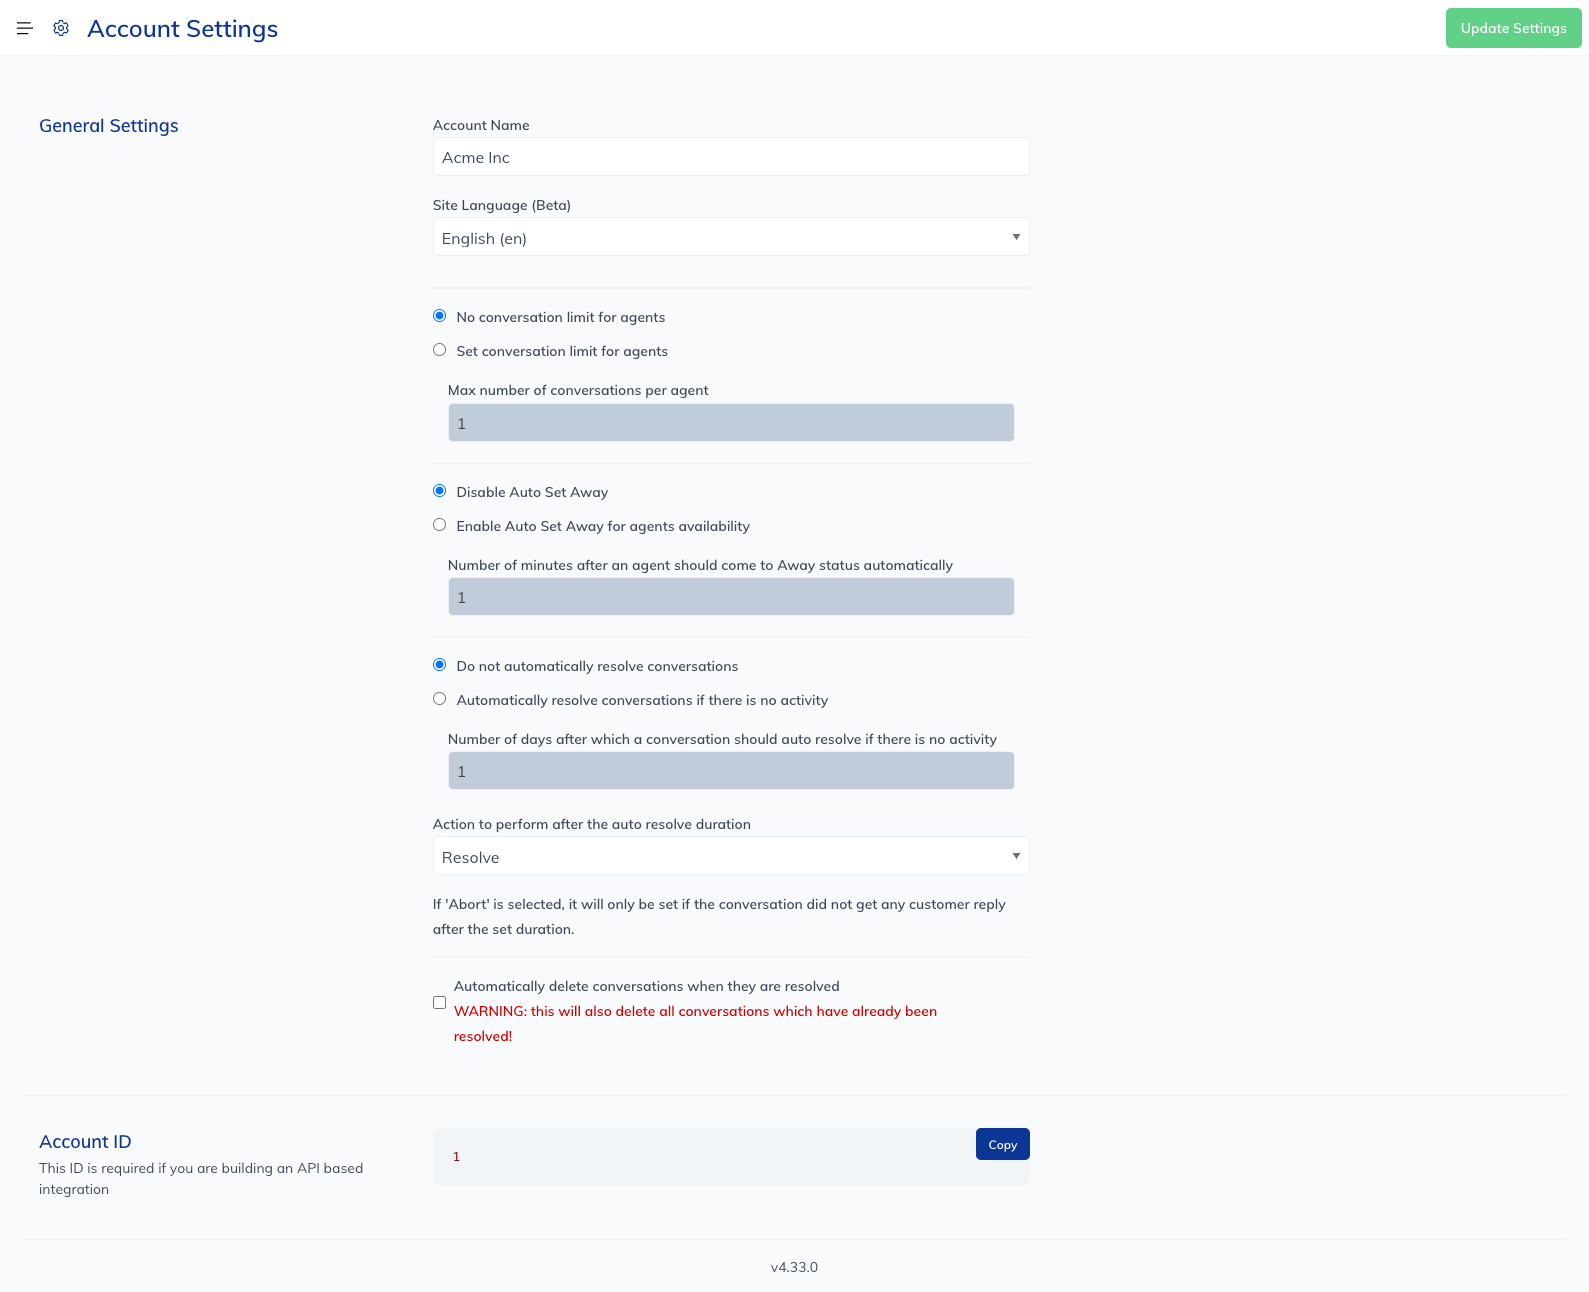
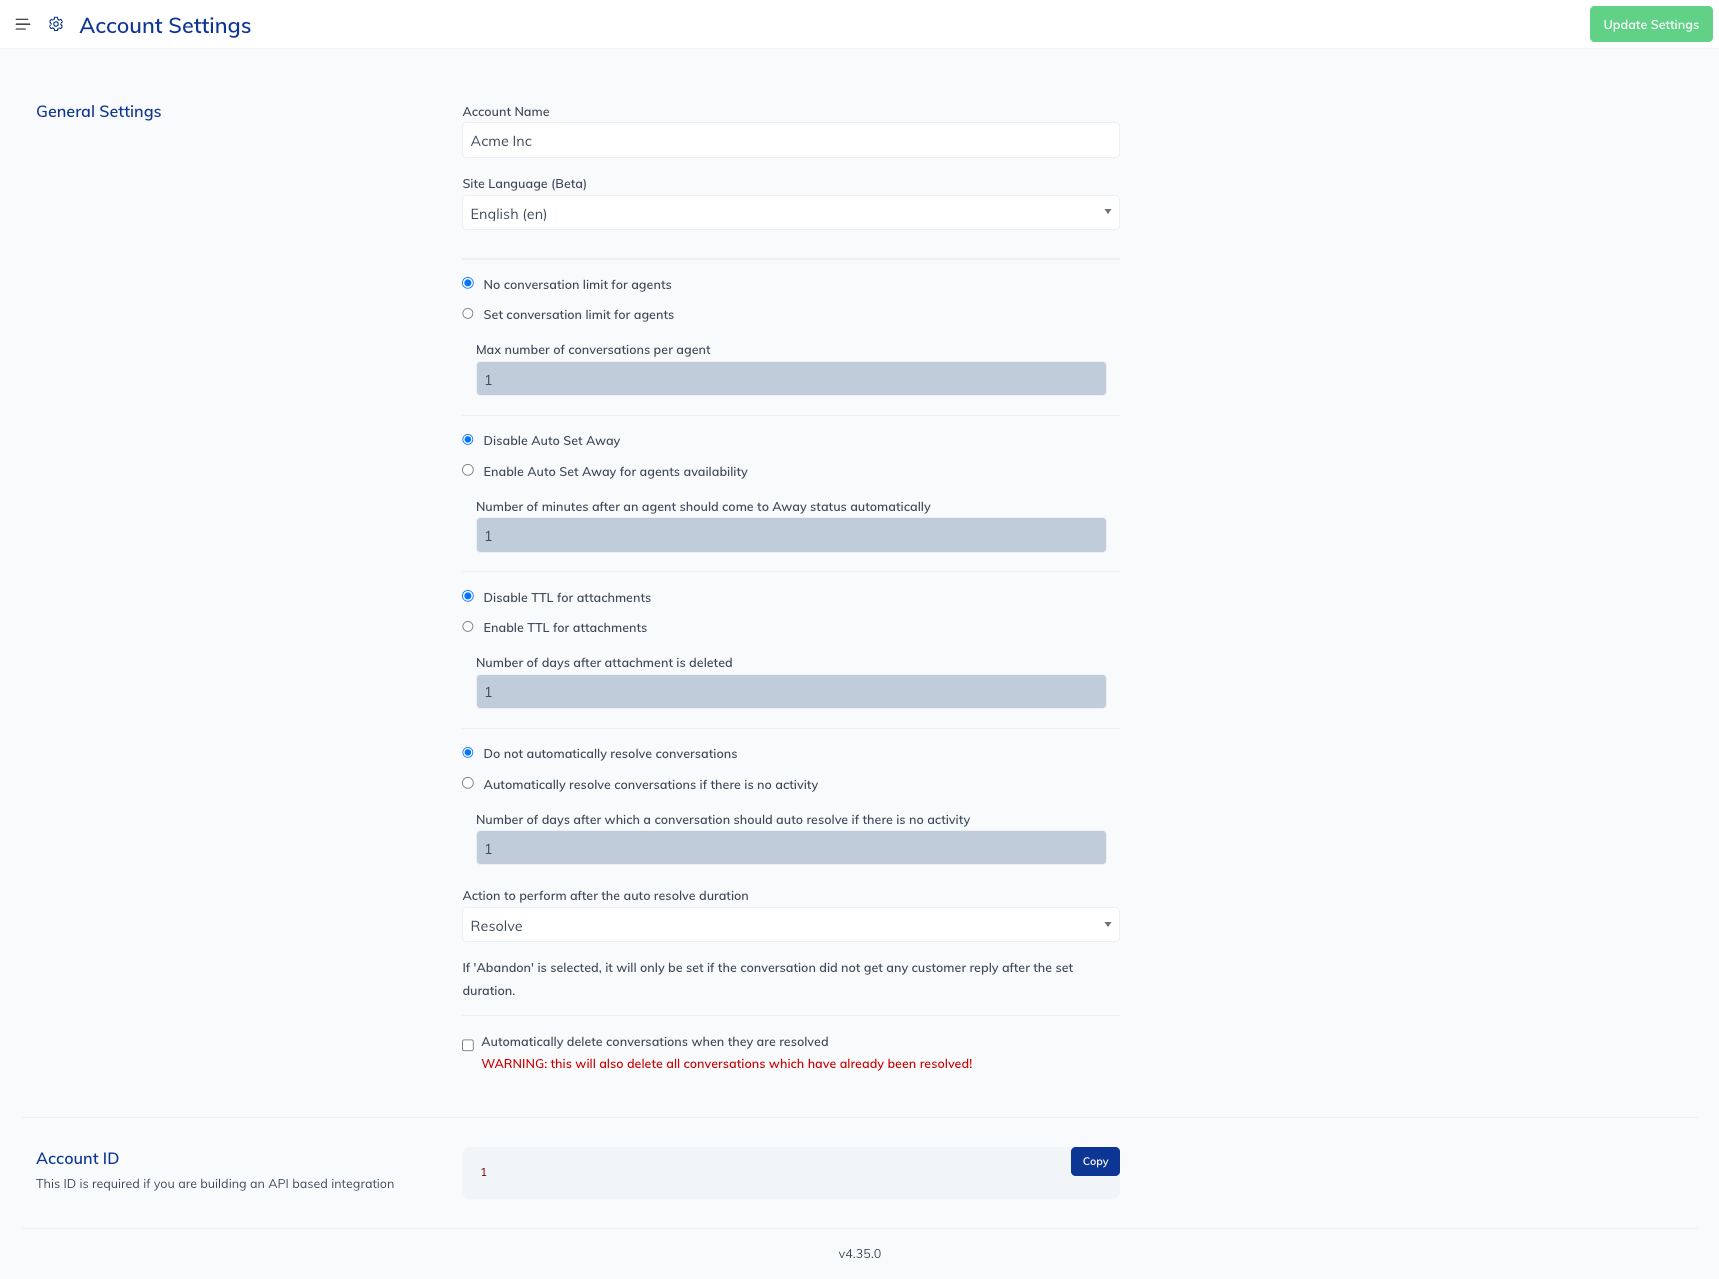
Add Attachment TTL Account settings docs plus new FAQ

diff --git a/docs/en/docs/live-agent/FAQs.md b/docs/en/docs/live-agent/FAQs.md
@@ -59,6 +59,9 @@ A quick way is to select an inbox on the dashboard screen. The URL will look lik
 
 The URL follows the pattern `accounts/{Account ID}/inbox/{Inbox ID}`, where the account ID is **1** and inbox ID is **4**
 
+### Can a TTL be set for attachments contained in messages?
+Yes, a TTL for attachments contained in messages per account can be defined under the [Account Settings]({{config.site_url}}live-agent/account-settings/#attachment-ttl).
+
 ### Is antivirus file upload scanning enabled for App and Trial environments?
 The antivirus file upload scanning needs to be configured at the infrastructure level, and it is not enabled for the Trial and App instances at the moment.
 Head over to [File Upload Antivirus Scan Helm Values]({{config.site_url}}live-agent/installation/helm-values/helm-values/#file-upload-antivirus-scan) for learning how to configure it.

diff --git a/docs/en/docs/live-agent/account-settings.md b/docs/en/docs/live-agent/account-settings.md
@@ -51,6 +51,15 @@ The Auto Set Away option is used to automatically set the agent as away when the
 
 >Note: This does not work if the Live Agent is closed. In this case, the user is set to offline automatically when the browser window is closed.
 
+## Attachment TTL
+
+<figure>
+<img src="{{config.site_url}}live-agent/images/LA-account-settings-attachment-ttl.png" width="100%" alt="Live Agent Account Settings" />
+  <figcaption>Account Settings Attachment TTL</figcaption>
+</figure>
+
+The Attachment TT option automatically deletes the attachments in messages of all the account conversations after a specific time. The time is set in days. It is disabled by default.
+
 ## Auto Resolve
 
 <figure>
